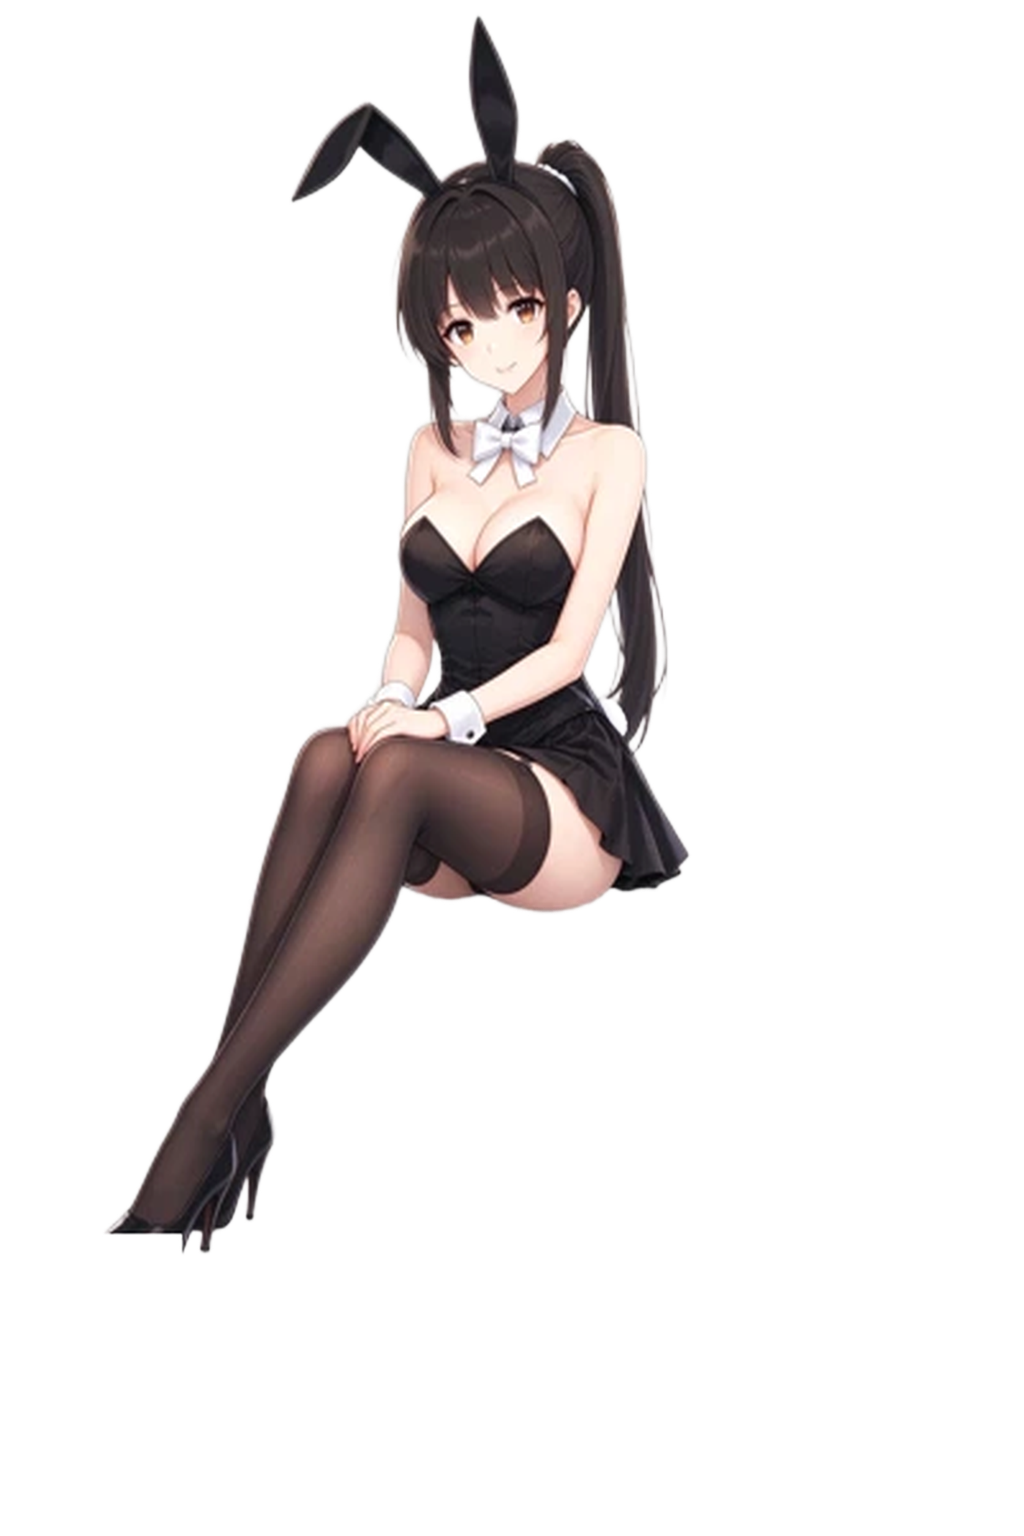
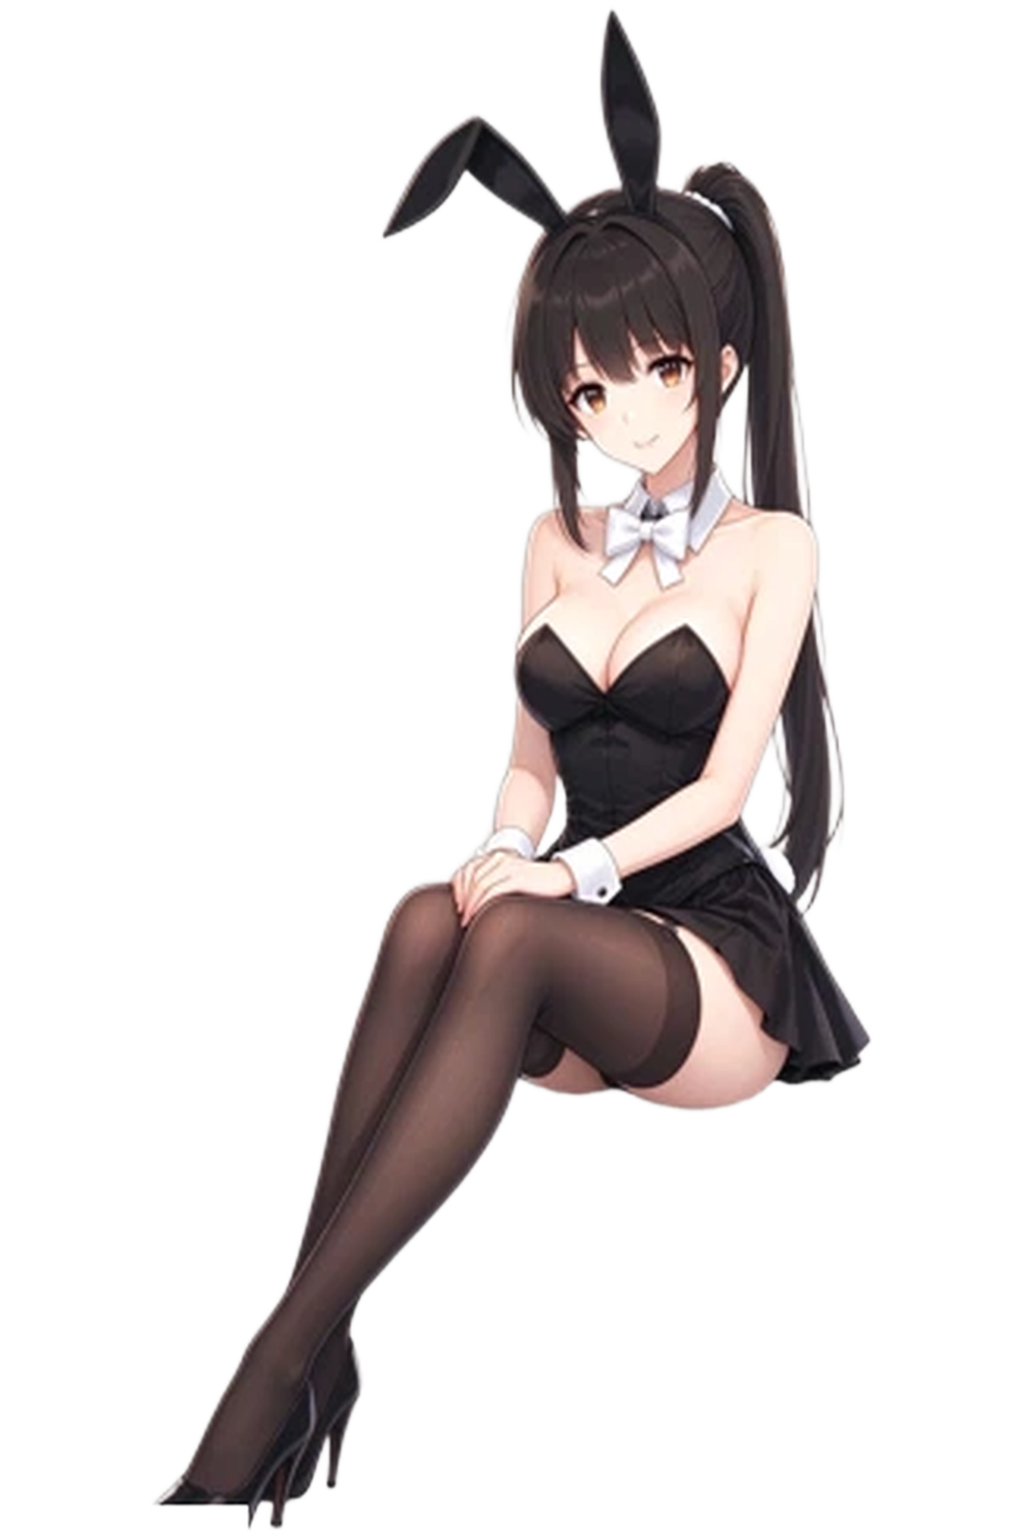
v6.1.5-4: 快捷菜单点击全部无效 + 兔娘预览图偏小
1. 快捷菜单点击无效根因：_showFanMenu 与 _fanBtnClick 各自读 savedApps——当用户未添加自定义 app 时，
   _showFanMenu 兜底渲染默认3个（微信/抖音/设置），但 _fanBtnClick 用 savedApps.count(=0) 判断
   idx < savedApps.count 恒不成立 → 默认项点击全部静默失效
   - 重构：新增统一数据源 _fanMenuApps（suite 优先/standard 兜底 + 无自定义时默认4个含相机 + 固定 AI/隐藏），
   _showFanMenu 渲染与 _fanBtnClick 点击都基于同一数组，按 url/bundleId 分发（隐藏/AI/自定义/默认）
2. 兔娘预览图偏小根因：rabit_cross 人物横向只占画布 57%（girl 83%/cat 75%），同高缩放后人物自然小
   - 用 PIL 裁剪人物 bbox 留白并等比放大顶满画布 → 人物宽占 70%、高占 99%，与另两张视觉一致

Changed region(s): [[0.0938, 0.0, 0.8438, 1.0]]

diff --git a/HUD/sources/HUDRootViewController.mm b/HUD/sources/HUDRootViewController.mm
@@ -1246,39 +1246,11 @@ extern "C" const char *g_hud_char;
     BOOL fromTop = (girlY < 150);
     BOOL fromLeft = (girlX < 150);
     BOOL fromRight = (girlX > screenW - 150);
-    // 从UserDefaults读取自定义应用列表，默认4个常用
-    // v6.1.5-3: 主 App 与 HUD 独立进程——fanMenuApps 由主 App 写入 App Group 共享域
-    //（group.com.ai.iosxcode），HUD 必须从同 suite 读；standardUserDefaults 兜底兼容旧数据
-    NSUserDefaults *prefs = [[NSUserDefaults alloc] initWithSuiteName:@"group.com.ai.iosxcode"];
-    NSArray *savedApps = [prefs arrayForKey:@"fanMenuApps"];
-    if (!savedApps) savedApps = [[NSUserDefaults standardUserDefaults] arrayForKey:@"fanMenuApps"];
-    NSMutableArray *apps = [NSMutableArray array];
-    if (savedApps.count) {
-        for (NSDictionary *a in savedApps) {
-            // v6.0.30修复：从已安装应用添加的条目只有bundleId没有url，
-            // 字典字面量遇nil值直接抛NSInvalidArgumentException崩溃（菜单弹不出）
-            NSString *name = a[@"name"] ?: @"应用";
-            NSString *url = a[@"url"] ?: @"";
-            [apps addObject:@{
-                @"name": name,
-                @"url": url,
-                @"color": [UIColor systemBlueColor]
-            }];
-        }
-    } else {
-        // 默认
-        [apps addObjectsFromArray:@[
-            @{@"name":@"微信", @"url":@"weixin://", @"color":[UIColor colorWithRed:0.19 green:0.78 blue:0.32 alpha:1.0]},
-            @{@"name":@"抖音", @"url":@"snssdk1128://", @"color":[UIColor blackColor]},
-            @{@"name":@"设置", @"url":@"App-prefs://", @"color":[UIColor grayColor]}
-        ]];
-    }
-    // 最后固定加AI聊天和隐藏
-    [apps addObject:@{@"name":@"AI", @"url":@"trollagent://chat", @"color":[UIColor systemBlueColor]}];
-    [apps addObject:@{@"name":@"隐藏", @"url":@"trollagent://hide", @"color":[UIColor systemRedColor]}];
+    // 统一菜单数据源（v6.1.5-4：_showFanMenu 与 _fanBtnClick 共用，杜绝两处读不一致导致点击失效）
+    NSArray *apps = [self _fanMenuApps];
     CGFloat radius = 120;
     NSInteger count = apps.count;
-    NSInteger menuStyle = [prefs integerForKey:@"fanMenuStyle"];
+    NSInteger menuStyle = [[[NSUserDefaults alloc] initWithSuiteName:@"group.com.ai.iosxcode"] integerForKey:@"fanMenuStyle"];
     for (NSInteger i = 0; i < count; i++) {
         UIButton *btn = [UIButton buttonWithType:UIButtonTypeCustom];
         BOOL isList = (menuStyle == 1);
@@ -1390,12 +1362,14 @@ extern "C" const char *g_hud_char;
 - (void)_fanBtnClick:(UIButton *)btn {
     NSInteger idx = btn.tag - 9000;
     [self _closeFanMenu];
-    // 读取应用列表（v6.1.5-3: App Group 共享域优先，standard 兜底旧数据）
-    NSArray *savedApps = [[[NSUserDefaults alloc] initWithSuiteName:@"group.com.ai.iosxcode"] arrayForKey:@"fanMenuApps"];
-    if (!savedApps) savedApps = [[NSUserDefaults standardUserDefaults] arrayForKey:@"fanMenuApps"];
-    NSInteger customCount = savedApps.count ?: 3;
-    if (idx == customCount + 1) {
-        // 最后一个是隐藏：缩小成小圆点贴屏幕边缘，不消失，点一下恢复
+    // v6.1.5-4：与 _showFanMenu 共用同一数据源，默认项/自定义/AI/隐藏统一对齐
+    NSArray *apps = [self _fanMenuApps];
+    if (idx < 0 || idx >= (NSInteger)apps.count) return;
+    NSDictionary *target = apps[idx];
+    NSString *url = target[@"url"] ?: @"";
+    NSString *bundleId = target[@"bundleId"] ?: @"";
+    if ([url isEqualToString:@"trollagent://hide"]) {
+        // 隐藏：缩小成小圆点贴屏幕边缘，不消失，点一下恢复
         [UIView animateWithDuration:0.3 animations:^{
             CGFloat screenW = [UIScreen mainScreen].bounds.size.width;
             CGFloat screenH = [UIScreen mainScreen].bounds.size.height;
@@ -1403,30 +1377,59 @@ extern "C" const char *g_hud_char;
             _girlView.center = CGPointMake(screenW - 30, screenH - 100);
             self.view.alpha = 0.7;
         }];
-        // 记下来现在是隐藏状态
         _isHidden = YES;
         return;
     }
-    if (idx == customCount) {
-        // 倒数第二个是AI聊天
+    if ([url isEqualToString:@"trollagent://chat"] || [target[@"name"] isEqualToString:@"AI"]) {
+        // AI聊天
         [[UIApplication sharedApplication] openURL:[NSURL URLWithString:@"trollagent://chat"] options:@{} completionHandler:nil];
         return;
     }
-    // 自定义应用
-    if (idx < savedApps.count) {
-        // 优先用bundleId直接打开（新添加的应用）
-        NSString *bundleId = savedApps[idx][@"bundleId"];
-        if (bundleId.length > 0) {
-            // 用LSApplicationWorkspace直接打开，不用URL scheme
-            Class LSWorkspace = NSClassFromString(@"LSApplicationWorkspace");
-            id ws = [LSWorkspace performSelector:@selector(defaultWorkspace)];
-            [ws performSelector:@selector(openApplicationWithBundleID:) withObject:bundleId];
-        } else {
-            // 兼容旧的url scheme
-            NSString *url = savedApps[idx][@"url"];
-            [[UIApplication sharedApplication] openURL:[NSURL URLWithString:url] options:@{} completionHandler:nil];
-        }
+    if (bundleId.length > 0) {
+        // 用LSApplicationWorkspace直接打开，不用URL scheme
+        Class LSWorkspace = NSClassFromString(@"LSApplicationWorkspace");
+        id ws = [LSWorkspace performSelector:@selector(defaultWorkspace)];
+        [ws performSelector:@selector(openApplicationWithBundleID:) withObject:bundleId];
+    } else if (url.length > 0) {
+        // url scheme 打开
+        [[UIApplication sharedApplication] openURL:[NSURL URLWithString:url] options:@{} completionHandler:nil];
     }
+}
+
+- (NSArray *)_fanMenuApps {
+    // v6.1.5-4：统一菜单数据构建——自定义列表（App Group suite 优先，standard 兜底旧数据）
+    // + 无自定义时默认4个 + 固定 AI/隐藏。_showFanMenu 与 _fanBtnClick 都走这里，保证点对项
+    NSUserDefaults *prefs = [[NSUserDefaults alloc] initWithSuiteName:@"group.com.ai.iosxcode"];
+    NSArray *savedApps = [prefs arrayForKey:@"fanMenuApps"];
+    if (!savedApps) savedApps = [[NSUserDefaults standardUserDefaults] arrayForKey:@"fanMenuApps"];
+    NSMutableArray *apps = [NSMutableArray array];
+    if (savedApps.count) {
+        for (NSDictionary *a in savedApps) {
+            // v6.0.30修复：从已安装应用添加的条目只有bundleId没有url，
+            // 字典字面量遇nil值直接抛NSInvalidArgumentException崩溃（菜单弹不出）
+            NSString *name = a[@"name"] ?: @"应用";
+            NSString *url = a[@"url"] ?: @"";
+            NSString *bid = a[@"bundleId"] ?: @"";
+            [apps addObject:@{
+                @"name": name,
+                @"url": url,
+                @"bundleId": bid,
+                @"color": [UIColor systemBlueColor]
+            }];
+        }
+    } else {
+        // 默认（与主 App 默认一致）
+        [apps addObjectsFromArray:@[
+            @{@"name":@"微信", @"url":@"weixin://", @"bundleId":@"", @"color":[UIColor colorWithRed:0.19 green:0.78 blue:0.32 alpha:1.0]},
+            @{@"name":@"抖音", @"url":@"snssdk1128://", @"bundleId":@"", @"color":[UIColor blackColor]},
+            @{@"name":@"相机", @"url":@"camera://", @"bundleId":@"", @"color":[UIColor systemTealColor]},
+            @{@"name":@"设置", @"url":@"App-prefs://", @"bundleId":@"", @"color":[UIColor grayColor]}
+        ]];
+    }
+    // 最后固定加AI聊天和隐藏
+    [apps addObject:@{@"name":@"AI", @"url":@"trollagent://chat", @"bundleId":@"", @"color":[UIColor systemBlueColor]}];
+    [apps addObject:@{@"name":@"隐藏", @"url":@"trollagent://hide", @"bundleId":@"", @"color":[UIColor systemRedColor]}];
+    return apps;
 }
 
 - (void)_closeFanMenu {
